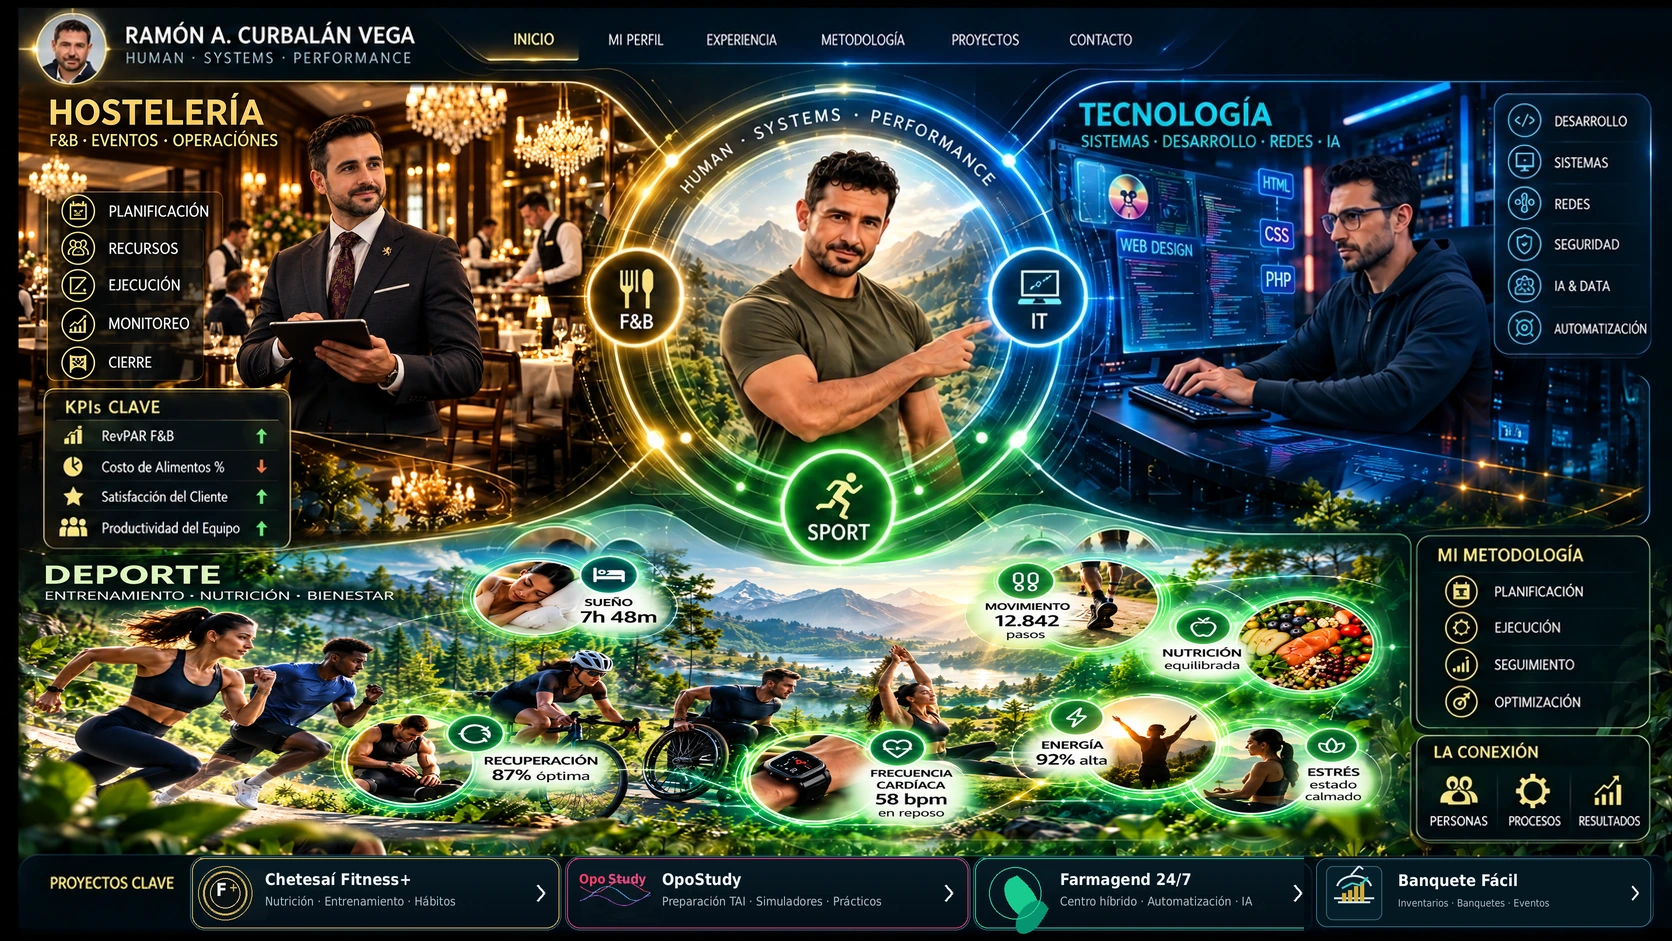
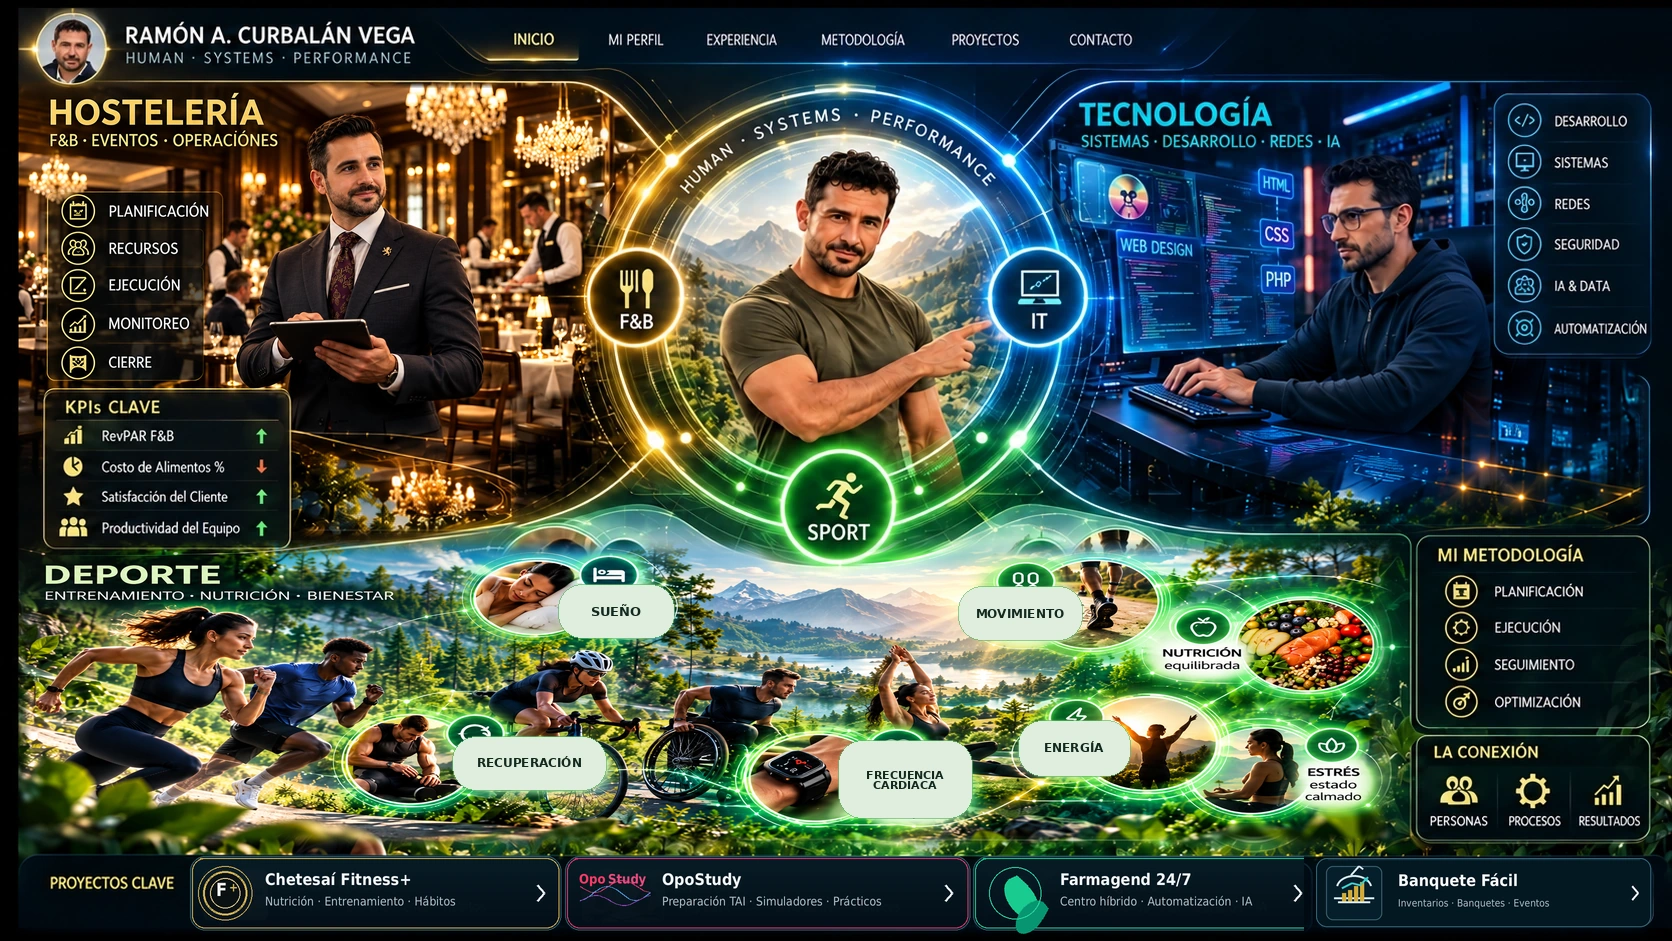
Remove fictitious sport metrics and keep labels only

diff --git a/index.html b/index.html
@@ -178,7 +178,7 @@ dialog h2{font-family:var(--serif);font-weight:700}
 </head>
 <body>
 <main class="cluster-stage" id="cluster">
-<img src="assets/cluster-approved.webp?v=no-social-hablemos" alt="Cluster Human Systems Performance de Ramón A. Curbalán Vega">
+<img src="assets/cluster-approved.webp?v=metrics-labels-only" alt="Cluster Human Systems Performance de Ramón A. Curbalán Vega">
 
 <!-- navegación -->
 <button class="hotspot nav-hotspot" style="left:28.4%;top:0;width:5.3%;height:6.8%" data-open="Inicio" aria-label="Inicio"></button>
